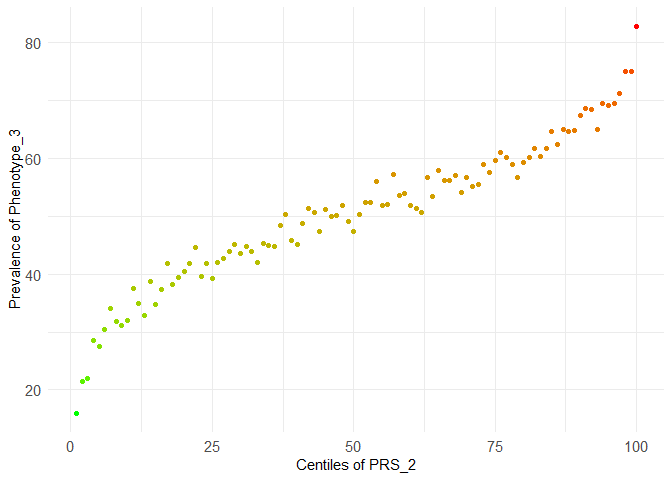
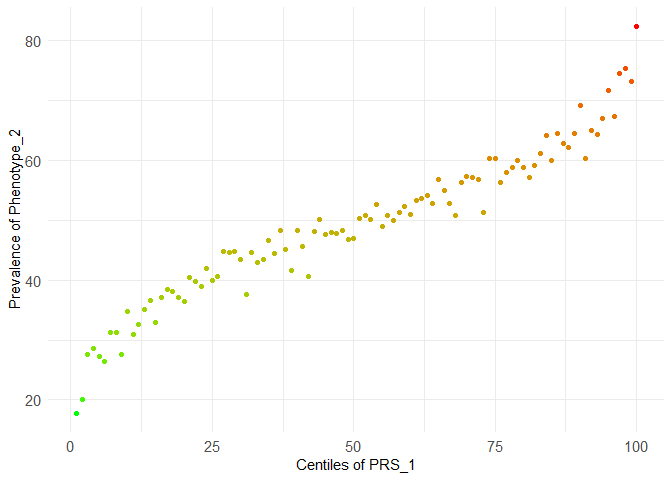
chore: update README

diff --git a/README.md b/README.md
@@ -96,12 +96,12 @@ centileplot(dataset, prs_col = "PRS_2", phenotype_col = "Phenotype_3")
 
 <img src="man/figures/README-centileplot-1.png" width="100%" />
 
-As those graphical functions use ggplot2, you can fully customised your
+As those graphical functions use ggplot2, you can fully customize your
 plot:
 
 ``` r
 library(ggplot2)
-centileplot(dataset, prs_col = "PRS_2", phenotype_col = "Phenotype_3") + 
+centileplot(dataset, prs_col = "PRS_1", phenotype_col = "Phenotype_2") + 
   scale_color_gradient(low = "green", high = "red")
 ```
 
